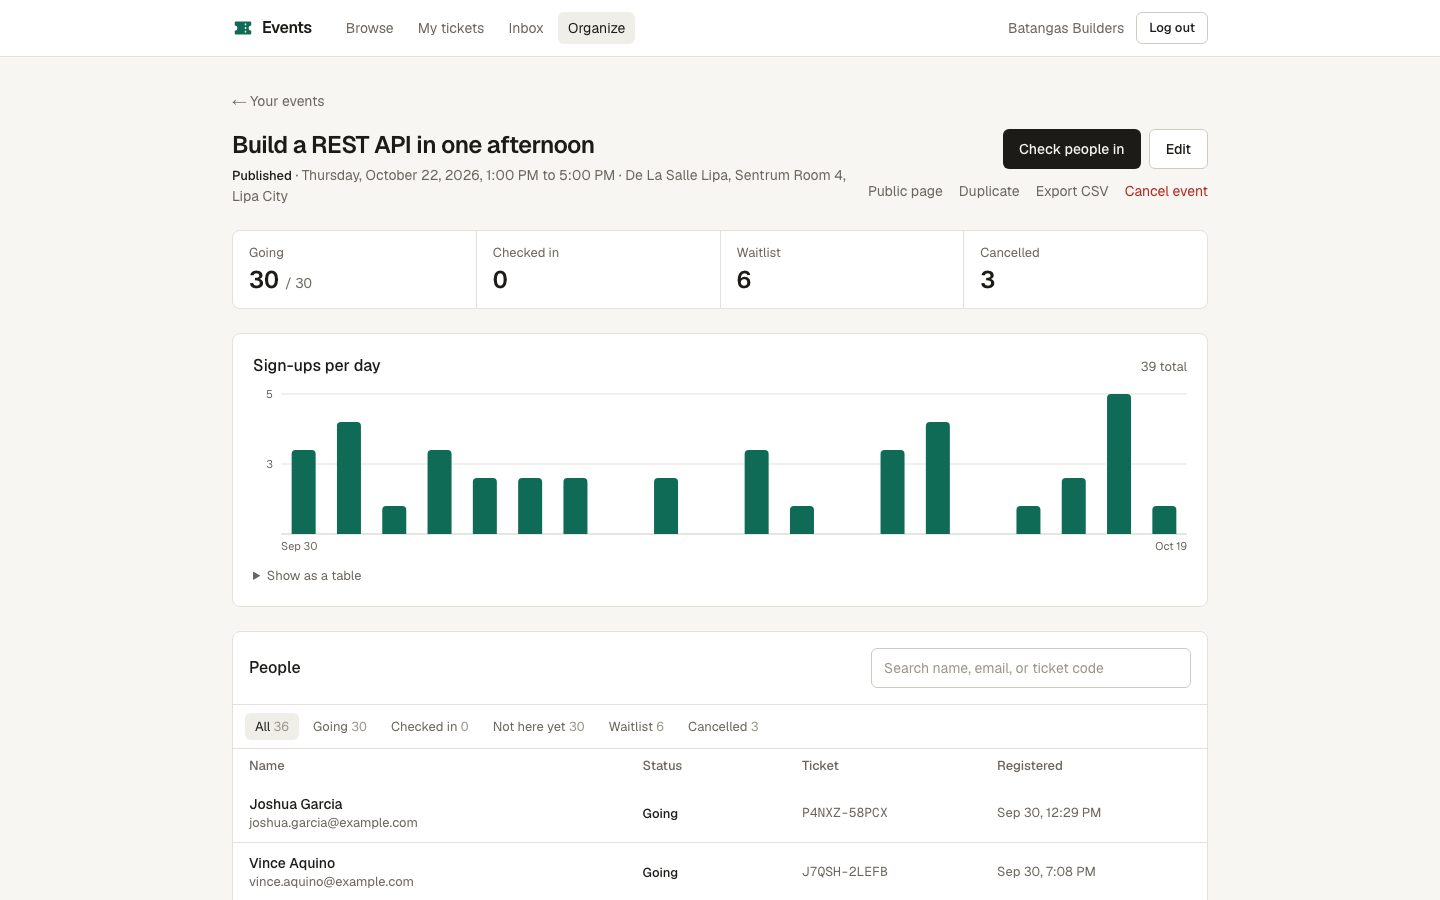
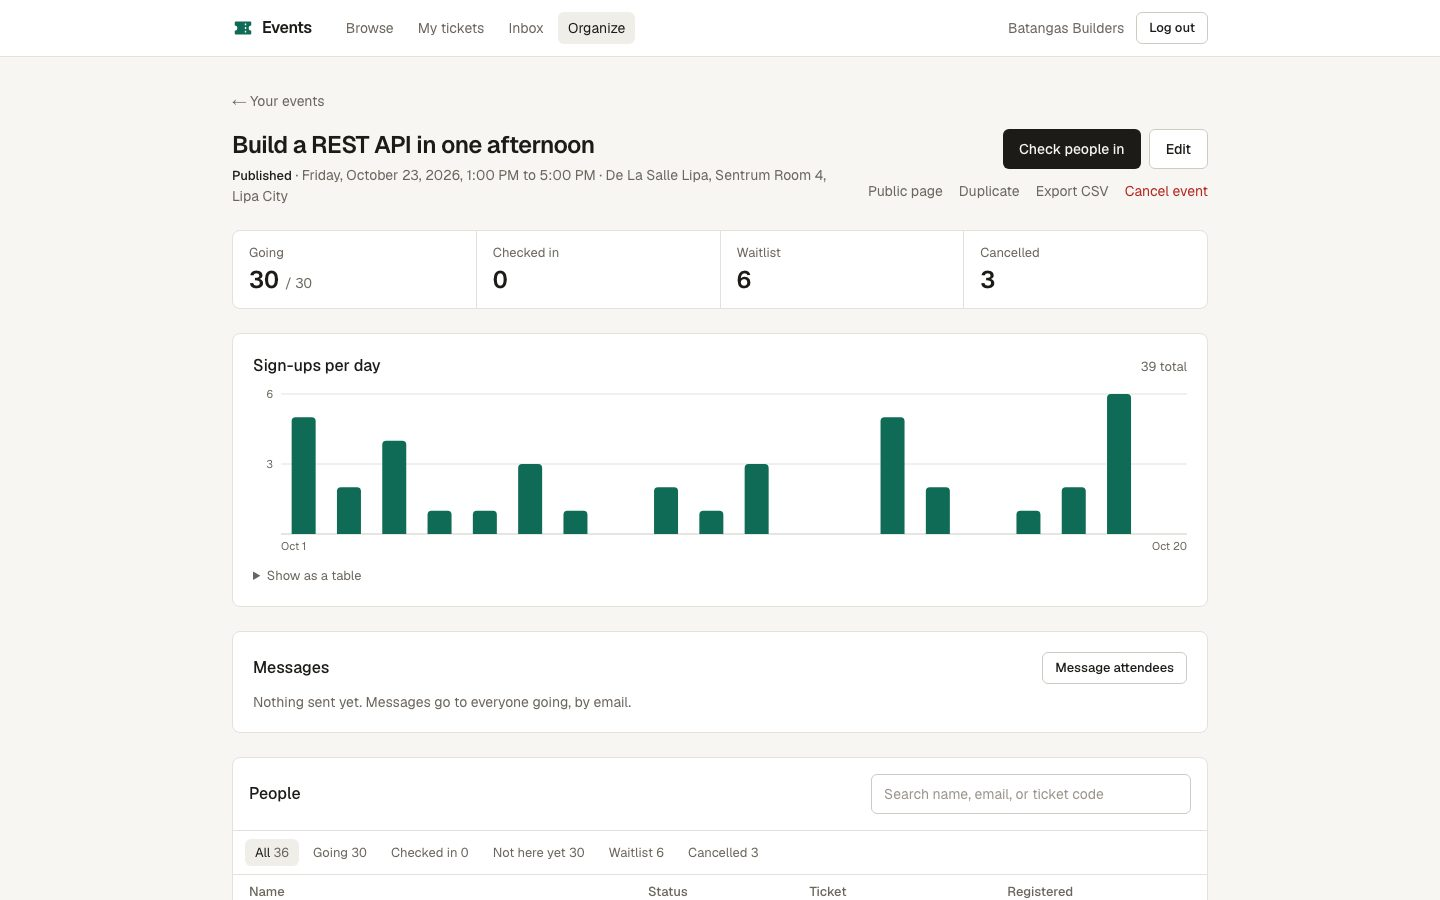
Show the new home page in the README
The home page becomes the main screenshot, and the ticket and dashboard screenshots are refreshed for the ticket notches, category colors, and messages panel. The old browse screenshot is no longer used.

diff --git a/README.md b/README.md
@@ -6,7 +6,7 @@ The live link runs in demo mode: the people and events are made up, the data res
 
 **Live demo:** https://event-management-two-alpha.vercel.app
 
-![Browsing upcoming events](docs/browse.jpg)
+![The home page: a ticket for the next event and what's on this week](docs/home.jpg)
 
 | A ticket with its QR code | The organizer dashboard |
 | --- | --- |
